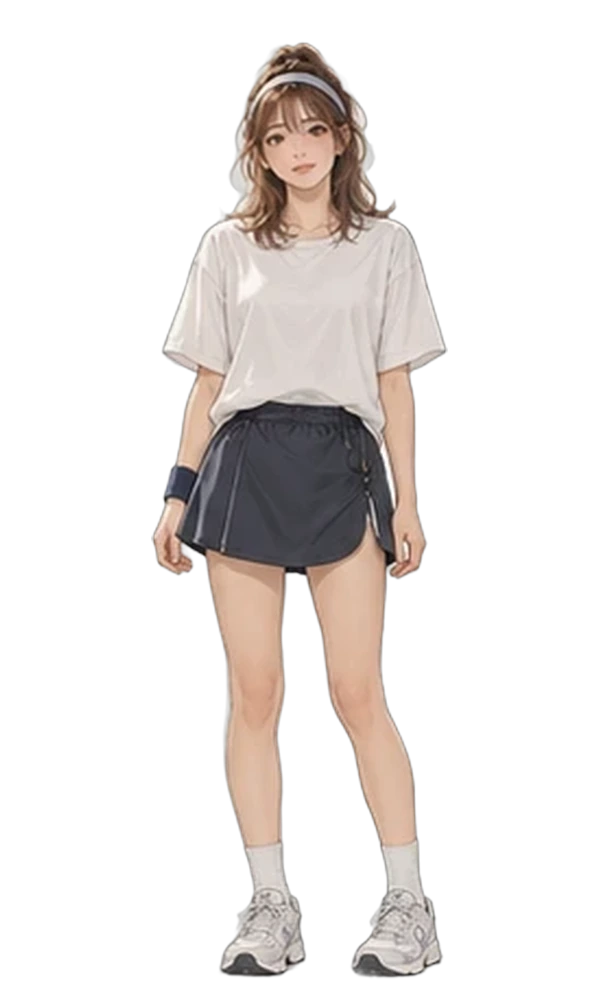
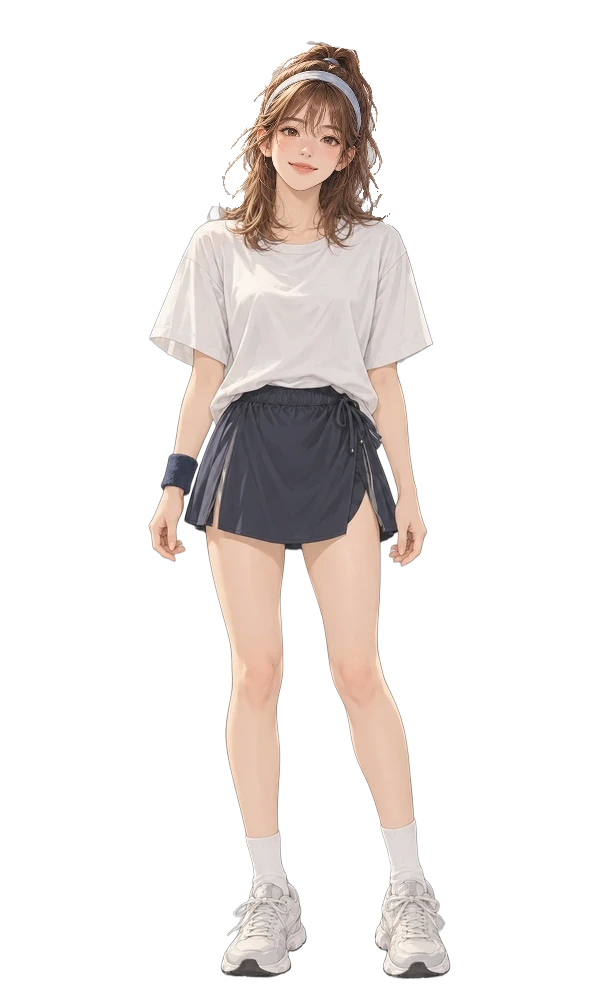
ART-09 予樂對話立繪＋3 表情（BB-B c383df3b）：yule/campus/neutral（全身去背＋平常頭）、smile、surprised；overlay_expressions.py 支援非九格的頭框；等 BB-B 驗收、遊戲 id 由 LAWWW-B 定
Claude-Session: https://claude.ai/code/session_01GV1WG3UeT2DhuDpxeWJsvD

Changed region(s): [[0.24, 0.031, 0.75, 0.992]]

diff --git a/tools/portraits/overlay_expressions.py b/tools/portraits/overlay_expressions.py
@@ -31,6 +31,9 @@ CFG = {
                        eye=(160, 150, 330, 235), search=(180, 20, 440, 240), scales=(0.22, 0.55), fade=(290, 325), skip=(), anchor=(120, 5, 350, 120)),
     'kexin': dict(sheet='kexin_expr9.webp', cell=(437, 400), body='assets/portraits/kexin/campus/neutral.webp',
                        eye=(165, 120, 310, 200), search=(180, 20, 440, 240), scales=(0.22, 0.55), fade=(255, 290), skip=(), anchor=(130, 5, 350, 100)),
+    'yule': dict(sheet='yule_portrait_sheet.webp', cell=(420, 450), body='assets/portraits/yule/campus/neutral.webp',
+                 boxes=[('neutral', (570, 50, 990, 500)), ('smile', (570, 530, 990, 980)), ('surprised', (570, 1000, 990, 1450))],
+                 eye=(110, 150, 310, 260), search=(180, 20, 440, 240), scales=(0.22, 0.55), fade=(295, 335), skip=(), anchor=(60, 0, 360, 110), band=6, speck_lum=95),
     'heroine_04': dict(sheet='heroine_04_expr9.webp', cell=(512, 341), body='assets/portraits/heroine_04/campus/neutral.webp',
                        eye=(215, 115, 360, 205), search=(200, 20, 420, 230), scales=(0.22, 0.50), fade=(252, 282), skip=(),
                        anchor=(180, 5, 440, 110)),
@@ -107,7 +110,11 @@ def main():
     bg = np.asarray(sheet).astype(float)[4, 4]
     eye_box = cf['eye']                                    # 格子裡「眼睛＋（眼鏡）＋鼻子」那一塊（九格大致同位置；每格自己對齊）
     search = cf['search']                                  # 全身圖頭部附近
-    names = [n for n in (a.only.split(',') if a.only else NAMES) if n not in cf['skip']]
+    BOX = cf.get('boxes')                                  # 表情不是 3×3 九格、而是幾個頭各自的框（予樂：全身旁邊直排三個頭）：[(檔名, (x0,y0,x1,y1)), …]，框要一樣大
+    NM = [n for n, _ in BOX] if BOX else NAMES
+    if BOX: CW, CH = BOX[0][1][2] - BOX[0][1][0], BOX[0][1][3] - BOX[0][1][1]
+    getcell = (lambda i: sheet.crop(BOX[i][1])) if BOX else (lambda i: cell(sheet, i))
+    names = [n for n in (a.only.split(',') if a.only else NM) if n not in cf['skip']]
     report = []
 
     def fit(c):
@@ -116,11 +123,11 @@ def main():
         return find(body, c, eye_box, search, scales=np.linspace(t['s'] - 0.012, t['s'] + 0.012, 9), angles=np.linspace(t['ang'] - 1.5, t['ang'] + 1.5, 7))
     ref = None
     if cf.get('anchor'):
-        fits = {nm: fit(cell(sheet, i)) for i, nm in enumerate(NAMES) if nm not in cf['skip']}
-        rn = max(fits, key=lambda n: fits[n]['score']); ref = (cell(sheet, NAMES.index(rn)), fits[rn]); print('anchor cell', rn, round(fits[rn]['score'], 3), flush=True)
-    for i, nm in enumerate(NAMES):
+        fits = {nm: fit(getcell(i)) for i, nm in enumerate(NM) if nm not in cf['skip']}
+        rn = max(fits, key=lambda n: fits[n]['score']); ref = (getcell(NM.index(rn)), fits[rn]); print('anchor cell', rn, round(fits[rn]['score'], 3), flush=True)
+    for i, nm in enumerate(NM):
         if nm not in names: continue
-        c = cell(sheet, i)
+        c = getcell(i)
         if ref is None: t = fit(c)
         else:
             d, sc = shift_to(ref[0], c, cf['anchor']); t = dict(ref[1]); t['ccx'] -= d[0]; t['ccy'] -= d[1]; t['score'] = sc
@@ -146,9 +153,9 @@ def main():
         # 白點（BB-B 驗收時指出 laugh、serious、tired 左側髮絲外緣）：細髮絲邊緣還帶著淺灰底 → 透明交界 3 px 內、低彩度（灰白）又偏亮的像素拿掉
         # （膚色是暖色、彩度高，右邊的臉頰下巴不會被清到）；再只留最大的一塊（浮在外面的小點）
         from scipy import ndimage
-        band = ndimage.binary_dilation(al < 0.1, iterations=4 if cf.get('anchor') else 3) & (al > 0)
+        band = ndimage.binary_dilation(al < 0.1, iterations=cf.get('band', 4 if cf.get('anchor') else 3)) & (al > 0)
         sat = cr.max(axis=2) - cr.min(axis=2); lum = cr @ np.array([0.299, 0.587, 0.114])
-        al = np.where(band & (sat < 28) & (lum > 115), 0, al)
+        al = np.where(band & (sat < 28) & (lum > cf.get('speck_lum', 115)), 0, al)   # 予樂：淺棕色的亂髮（飽和度高）外面一圈灰白細毛 → 帶寬 6、亮度門檻 95
         if cf.get('anchor'):                                              # AI 圖在頭髮外面畫了一圈比灰底還亮的光暈（亮、沒有顏色）：和外面連在一起的那一片全部當背景（眼白被睫毛、皮膚包著，不會連到外面）
             lt = (lum > 140) & (sat < 30); ext = al < 0.1
             lb, _n = ndimage.label(lt | ext); touch = np.unique(lb[ext]); al = np.where(lt & np.isin(lb, touch[touch > 0]), 0, al)

diff --git a/tools/portraits/cut_reference_portraits.py b/tools/portraits/cut_reference_portraits.py
@@ -43,7 +43,7 @@ SRC = {
     'xun': ('R:xun.webp', (52, 503, 302, 1142)),
     'tangrui': ('R:tangrui.webp', (10, 348, 180, 814)),
     'jiahao': ('R:jiahao.webp', (48, 548, 302, 1208)),
-    'yule': ('R:yule.webp', (18, 368, 180, 810)),
+    'yule': ('D:yule_portrait_sheet.webp', (40, 10, 530, 1475)),   # BB-B 2026-10-16 c383df3b（D59 通過）：予樂的正式立繪表（左邊全身、右邊三個頭）；原本 art_reference/yule.webp (18,368,180,810) 的版本不再用
 }
 CW, CH, TOP, FILL = 600, 1000, 0.04, 0.94
 MATTING = {'heroine_05'}                                 # 學姊約會圖：白襯衫和灰底只差 7，一般去背會在髮絲邊留一圈淺灰；alpha matting（pymatting）髮絲乾淨、衣領完整

diff --git a/docs/art-rebuild/second_ai/test_shots/expr_yule/README.md b/docs/art-rebuild/second_ai/test_shots/expr_yule/README.md
@@ -1,0 +1,19 @@
+# ART-09 予樂對話立繪＋3 表情（BB-B c383df3b，2026-10-16）｜LAWWW2-B
+
+- 來源：企劃線 `docs/story_planning/date_system/art/yule_portrait_sheet.webp`（1024×1536，BB D59 通過）。
+  - 左邊是正面全身；右邊直排三個頭，由上到下是平常（帶笑）、微笑（大笑露牙）、驚訝。
+- 輸出：`assets/portraits/yule/campus/`（600×1000，透明，和其他人同構圖）。
+  - `neutral.webp`：全身，去背；臉用右上那個頭替換，所以和 smile、surprised 是同一個清晰度。
+  - `smile.webp`、`surprised.webp`：頭疊回全身。
+  - 做法和學姊、沛珊、可昕相同：先用最像的那格對到全身，其他格用頭頂和頭帶對齊；下巴以下淡出。
+- **遊戲 id 由 LAWWW-B 決定**：目前開發線沒有予樂。檔案先放在 `yule`。
+- 腳本：
+  - `tools/portraits/cut_reference_portraits.py --only yule`：yule 這一項改用這張立繪表；
+  - `tools/portraits/overlay_expressions.py --id yule`：新增「表情是幾個框、不是九格」的設定 `boxes`。
+- 對照：
+  - `heads.webp`：三個表情，深色底、紅底各一張；
+  - `full.webp`：全身三張並排。
+- 已知缺點：
+  - 亂髮外緣有少量灰白細毛；
+  - 脖子右側有一小塊淡灰。
+  - 原圖的髮絲很細，清得更乾淨會連頭髮一起吃掉。
